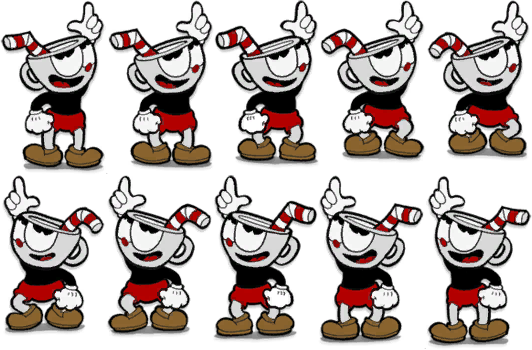
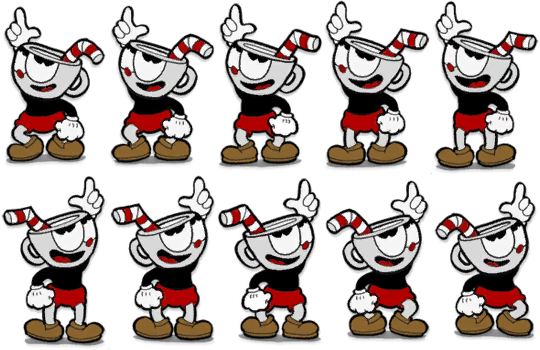
리소스 추가 & 발사 구현
매끄럽지 못한 리소스 수정
발사 구현

diff --git a/Scripts/Player.py b/Scripts/Player.py
@@ -2,7 +2,7 @@ import Game_FrameWork
 import random
 from pico2d import *
 from math import *
-#from ball import Ball
+from Player_Bullet import Player_Bullet
 
 import Game_World
 
@@ -17,13 +17,13 @@ RUN_SPEED_MPM = (RUN_SPEED_KMPH * 1000.0 / 60.0)
 RUN_SPEED_MPS = (RUN_SPEED_MPM / 60.0)
 RUN_SPEED_PPS = (RUN_SPEED_MPS * PIXEL_PER_METER)
 
-# Boy Action Speed
+# Player Action Speed
 TIME_PER_ACTION = 0.5
 ACTION_PER_TIME = 1.0 / TIME_PER_ACTION
 FRAMES_PER_ACTION = 5
 
 # Player Event
-RIGHT_DOWN, LEFT_DOWN, RIGHT_UP, LEFT_UP, TOP_UP,TOP_DOWN, GROUND, SPACE = range(8)
+RIGHT_DOWN, LEFT_DOWN, RIGHT_UP, LEFT_UP, TOP_UP,TOP_DOWN, GROUND, SPACE, X = range(9)
 
 key_event_table = {
     (SDL_KEYDOWN, SDLK_RIGHT): RIGHT_DOWN,
@@ -32,7 +32,8 @@ key_event_table = {
     (SDL_KEYUP, SDLK_LEFT): LEFT_UP,
     (SDL_KEYUP, SDLK_UP): TOP_UP,
     (SDL_KEYDOWN, SDLK_UP): TOP_DOWN,
-    (SDL_KEYDOWN, SDLK_SPACE): SPACE
+    (SDL_KEYDOWN, SDLK_SPACE): SPACE,
+    (SDL_KEYDOWN, SDLK_x): X
 }
 
 
@@ -42,7 +43,8 @@ class IdleState:
 
     @staticmethod
     def enter(player, event):
-        player.image = load_image("C:\\GitHub\\2DGP_TermProject\\Resources\\Player\\Idle\\Player_Idle2.png")
+        player.image = load_image("C:\\GitHub\\2DGP_TermProject\\Resources\\Player\\Idle\\Player_Idle.png")
+        player.frame = 0
         if event == RIGHT_DOWN:
             player.velocity += RUN_SPEED_PPS
         elif event == LEFT_DOWN:
@@ -55,41 +57,46 @@ class IdleState:
             player.image = load_image("C:\\GitHub\\2DGP_TermProject\\Resources\\Player\\Idle\\Player_Idle_Up.png")
             player.updown = 1
         elif event == TOP_UP:
-            player.image = load_image("C:\\GitHub\\2DGP_TermProject\\Resources\\Player\\Idle\\Player_Idle2.png")
+            player.image = load_image("C:\\GitHub\\2DGP_TermProject\\Resources\\Player\\Idle\\Player_Idle.png")
             player.updown = 0
-
 
     @staticmethod
     def exit(player, event):
-        pass
+        if event == X:
+            player.fire_bullet()
 
     @staticmethod
     def do(player):
-        global timer
-        timer = get_time()
-        player.frame = (player.frame + FRAMES_PER_ACTION * ACTION_PER_TIME * Game_FrameWork.frame_time) % 5
+        if player.isIdleFrameIncrease:
+            player.frame += (FRAMES_PER_ACTION * ACTION_PER_TIME * Game_FrameWork.frame_time) % 5
+            if player.frame >= 4:
+                player.isIdleFrameIncrease = False
+        else:
+            player.frame -= (FRAMES_PER_ACTION * ACTION_PER_TIME * Game_FrameWork.frame_time) % 5
+            if player.frame <= 0:
+                player.isIdleFrameIncrease = True
+
 
     @staticmethod
     def draw(player):
         if player.dir == 1:
             if player.updown == 1:
-                player.image.clip_draw(int(player.frame) * 105, 175, 105, 175, player.x, player.y)
+                player.image.clip_draw(int(player.frame) * 134, 0, 134, 161, player.x, player.y)
             else:
-                player.image.clip_draw(int(player.frame) * 131, 161, 131, 161, player.x, player.y)
+                player.image.clip_draw(int(player.frame) * 134, 0, 134, 161, player.x, player.y)
         else:
             if player.updown == 1:
-                player.image.clip_draw(int(player.frame) * 105, 0, 105, 175, player.x, player.y)
+                player.image.clip_draw(int(player.frame) * 134, 0, 134, 161, player.x, player.y)
             else:
-                player.image.clip_draw(int(player.frame) * 131, 0, 131, 161, player.x, player.y)
+                player.image.clip_draw(int(player.frame) * 133, 161, 133, 158, player.x, player.y)
 
 
 
 class RunState:
 
-
     @staticmethod
     def enter(player, event):
-        player.image = load_image("C:\\GitHub\\2DGP_TermProject\\Resources\\Player\\Run\\Player_Run2.png")
+        player.image = load_image("C:\\GitHub\\2DGP_TermProject\\Resources\\Player\\Run\\Player_Run.png")
 
         if event == RIGHT_DOWN:
             player.velocity += RUN_SPEED_PPS
@@ -103,21 +110,24 @@ class RunState:
 
     @staticmethod
     def exit(player, event):
-        if event == SPACE:
-            player.fire_ball()
+        if event == X:
+            player.fire_bullet()
 
     @staticmethod
     def do(player):
-        player.frame = (player.frame + FRAMES_PER_ACTION * ACTION_PER_TIME * ACTION_PER_TIME * Game_FrameWork.frame_time) % 16
+        if player.dir == 1:
+            player.frame = (player.frame + FRAMES_PER_ACTION * ACTION_PER_TIME * ACTION_PER_TIME * Game_FrameWork.frame_time) % 16
+        else:
+            player.frame = (player.frame - (FRAMES_PER_ACTION * ACTION_PER_TIME * ACTION_PER_TIME * Game_FrameWork.frame_time)) % 16
         player.x += player.velocity * Game_FrameWork.frame_time
         player.x = clamp(25, player.x, 1600 - 25)
 
     @staticmethod
     def draw(player):
         if player.dir == 1:
-            player.image.clip_draw(int(player.frame) * 175, 0, 175, 162, player.x, player.y)
+            player.image.clip_draw(int(player.frame) * 144, 0, 144, 162, player.x, player.y)
         else:
-            player.image.clip_draw(int(player.frame) * 175, 162, 175, 162, player.x, player.y)
+            player.image.clip_draw(int(player.frame) * 144, 162, 144, 162, player.x, player.y)
 
 
 class JumpState:
@@ -139,7 +149,8 @@ class JumpState:
 
     @staticmethod
     def exit(player, event):
-        pass
+        if event == SPACE:
+            player.fire_bullet()
 
     @staticmethod
     def do(player):
@@ -167,29 +178,28 @@ class JumpState:
 
 
 next_state_table = {
-    IdleState: {RIGHT_UP: RunState, LEFT_UP: RunState, RIGHT_DOWN: RunState, LEFT_DOWN: RunState, TOP_UP: IdleState, TOP_DOWN: IdleState , SPACE: JumpState, GROUND: IdleState},
-    RunState: {RIGHT_UP: IdleState, LEFT_UP: IdleState, LEFT_DOWN: IdleState, RIGHT_DOWN: IdleState, TOP_UP: IdleState, TOP_DOWN: IdleState , SPACE: JumpState, GROUND: RunState},
-    JumpState: {RIGHT_UP: JumpState, LEFT_UP: JumpState, LEFT_DOWN: JumpState, RIGHT_DOWN: JumpState, TOP_UP: JumpState, TOP_DOWN: JumpState , SPACE: JumpState, GROUND :RunState},
+    IdleState: {RIGHT_UP: RunState, LEFT_UP: RunState, RIGHT_DOWN: RunState, LEFT_DOWN: RunState, TOP_UP: IdleState, TOP_DOWN: IdleState , SPACE: JumpState, GROUND: IdleState, X: IdleState},
+    RunState: {RIGHT_UP: IdleState, LEFT_UP: IdleState, LEFT_DOWN: IdleState, RIGHT_DOWN: IdleState, TOP_UP: IdleState, TOP_DOWN: IdleState , SPACE: JumpState, GROUND: RunState, X: RunState},
+    JumpState: {RIGHT_UP: JumpState, LEFT_UP: JumpState, LEFT_DOWN: JumpState, RIGHT_DOWN: JumpState, TOP_UP: JumpState, TOP_DOWN: JumpState , SPACE: JumpState, GROUND :RunState, X: JumpState},
 }
 
 class Player:
 
     def __init__(self):
         self.x, self.y = 1900 // 2, 90
-        self.image = load_image("C:\\GitHub\\2DGP_TermProject\\Resources\\Player\\Idle\\Player_Idle2.png")
-#        self.font = load_font('ENCR10B.TTF', 32)
+        self.image = load_image("C:\\GitHub\\2DGP_TermProject\\Resources\\Player\\Idle\\Player_Idle.png")
         self.dir = 1
         self.updown = 0
+        self.isIdleFrameIncrease = True
         self.velocity = 0
         self.frame = 0
         self.event_que = []
         self.cur_state = IdleState
         self.cur_state.enter(self, None)
 
-    def fire_ball(self):
-        pass
-        #ball = Ball(self.x, self.y, self.dir*3)
-        #Game_World.add_object(ball, 1)
+    def fire_bullet(self):
+        player_bullet = Player_Bullet(self.x, self.y, self.dir*10)
+        Game_World.add_object(player_bullet, 1)
 
     def add_event(self, event):
         self.event_que.insert(0, event)
@@ -204,7 +214,6 @@ class Player:
         print(self.cur_state, self.image)
     def draw(self):
         self.cur_state.draw(self)
-#        self.font.draw(self.x - 60, self.y + 50, '(Time: %3.2f)' % get_time(), (255, 255, 0))
 
     def handle_event(self, event):
         if (event.type, event.key) in key_event_table:

diff --git a/Scripts/Player_Bullet.py b/Scripts/Player_Bullet.py
@@ -1,0 +1,28 @@
+from pico2d import *
+import Game_World
+import Game_FrameWork
+
+# Player_Bullet Action Speed
+TIME_PER_ACTION = 0.5
+ACTION_PER_TIME = 1.0 / TIME_PER_ACTION
+FRAMES_PER_ACTION = 8
+
+class Player_Bullet:
+    image = None
+
+    def __init__(self, x = 400, y = 300, velocity = 1):
+        if Player_Bullet.image == None:
+            Player_Bullet.image = load_image('C:\\GitHub\\2DGP_TermProject\\Resources\\Player\\Bullet\\Player_Bullet.png')
+        self.x, self.y, self.velocity = x, y, velocity
+        self.frame = 0
+
+
+    def draw(self):
+        self.image.clip_draw(int(self.frame) * 80, 0, 80, 51, self.x, self.y)
+
+    def update(self):
+        self.x += self.velocity
+        self.frame = (self.frame + FRAMES_PER_ACTION * ACTION_PER_TIME * Game_FrameWork.frame_time) % 4
+
+        if self.x < 25 or self.x > 1600 - 25:
+            Game_World.remove_object(self)
